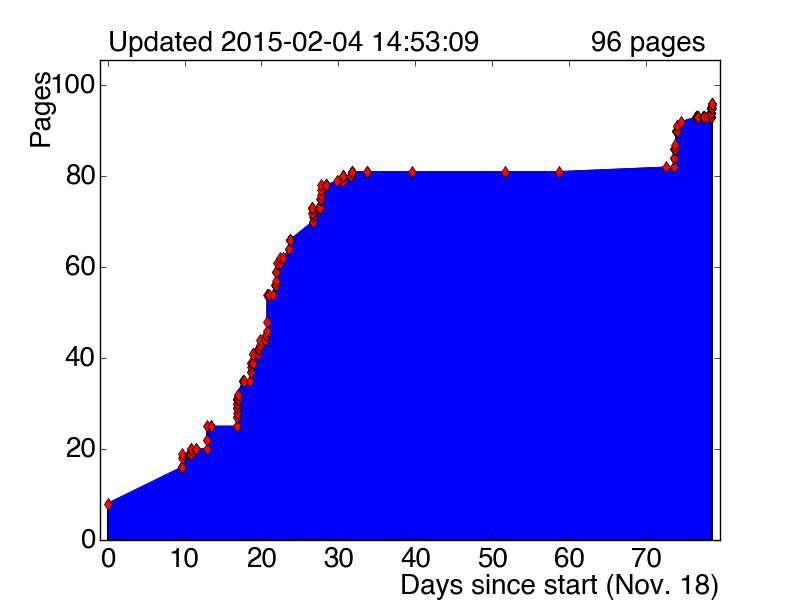
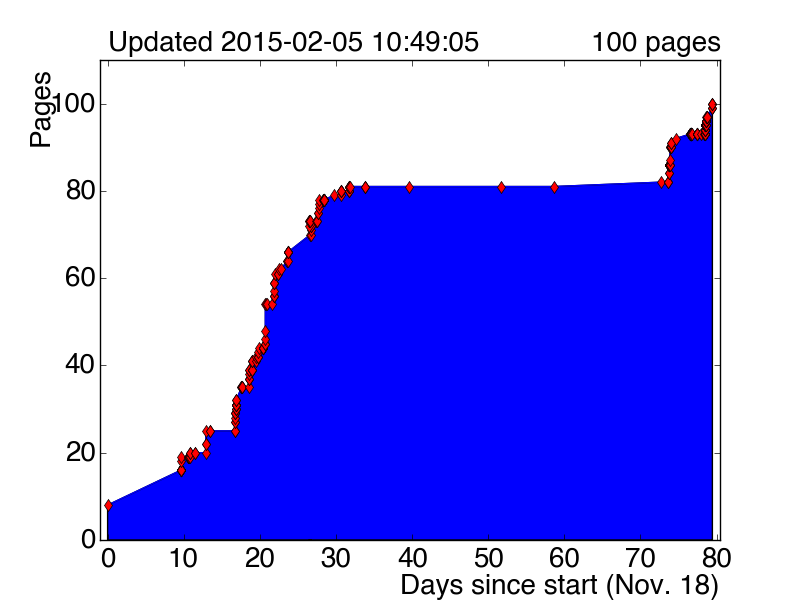
add sections to experiment, more tau id

diff --git a/tex/taus.tex b/tex/taus.tex
@@ -121,13 +121,16 @@ The in-situ method relies on the sensitivity of the visible $\mtautau$ in $\Ztau
 
 As a high energy hadron collider, the overwhelming majority of particles observed by ATLAS are hadrons. Distinguishing these QCD jets from $\tauh$ is then of huge consequence. The properties with discriminating power can be broadly grouped into three categories:
 %
-\begin{itemize}
-    \item \textbf{Track multiplicity}. $\tauh$ tend to have 1 or 3 associated tracks, where no such specificity is expected for jets.
-    \item \textbf{Narrowness}. $\tauh$ tend to be more narrow in the tracker and calorimeter since tau leptons from electroweak decays are boosted.
-    \item \textbf{Displaced vertex}. Tracks from $\tauh$ tend to be more displaced from the primary vertex than tracks in jets due to the finite tau lepton lifetime.
-\end{itemize}
+\begin{description}
+    \item[Track multiplicity:] \hfill \\
+      $\tauh$ tend to have 1 or 3 associated tracks, where no such specificity is expected for jets.
+    \item[Narrowness:]         \hfill \\
+      $\tauh$ tend to be more narrow in the tracker and calorimeter since tau leptons from electroweak decays are boosted.
+    \item[Displaced vertex:]   \hfill \\
+      Tracks from $\tauh$ tend to be more displaced from the primary vertex than tracks in jets due to the finite tau lepton lifetime.
+\end{description}
 %
-
+The track multiplicity and narrowness features are shown in \cref{fig:taus-eventdisplay}.
 
 \begin{figure}[tp]
   \centering
@@ -135,6 +138,78 @@ As a high energy hadron collider, the overwhelming majority of particles observe
   \caption{Variables.}
   \label{fig:taus-eventdisplay}
 \end{figure}
+
+For track multiplicity, reconstructed $\tauh$ are required to have exactly 1 or 3 associated tracks. This is effective at rejecting QCD jets which have a broader track multiplicity spectrum. This requirement has signficant efficiency loss (20-40\%) due to photon conversions from neutral pion decays and pileup, among other effects. The track multiplicity spectrum for $\tauh$ and jets is shown in \cref{fig:taus-trackmultiplicity} in a $\Ztaultauh$-rich selection of data.
+
+\begin{figure}[tp]
+  \centering
+  \includegraphics[width=0.95\textwidth]{figures/PERF-2013-06/fig_10a}
+  \caption{Variables.}
+  \label{fig:taus-trackmultiplicity}
+\end{figure}
+
+For narrowness and vertex displacement, discriminating variables are formed using tracking and calorimeter information and combined in a multi-variate identification algorithm. A complete description of the variables is given in \cref{tab:taus-idvars} and \cref{tab:taus-idvars}.
+
+A neutral pion identification algorithm is used.
+
+\begin{description}
+
+    \item[Central energy fraction (\coreEnergyFrac{}):] \hfill \\ 
+      Fraction of transverse energy deposited in the region $\Delta R < 0.1$ out of all energy deposited in the region $\Delta R < 0.2$ around the $\tauh$ candidate calculated by summing the energy deposited in all cells belonging to TopoClusters with a barycenter in this region, calibrated at the EM energy scale. Biases due to pile-up contributions are removed using a correction based on the number of reconstructed primary vertices in the event.
+
+    \item[Leading track momentum fraction (\leadTrackMomFrac{}):] \hfill \\ 
+      The transverse momentum of the highest-\pt{} charged particle in the core region of the $\tauh$ candidate, divided by the transverse energy sum, calibrated at the EM energy scale, deposited in all cells belonging to TopoClusters in the core region. A correction depending on the number of reconstructed primary vertices in the event is applied to this fraction, making the resulting variable pile-up independent.
+
+    \item[Track radius (\trackRadius{}):] \hfill \\ 
+      \pt-weighted distance of the associated tracks to the $\tauh$ direction, using all tracks in the core and isolation regions.
+
+    \item[Leading track IP significance (\ipSigLeadTrk{}): ] \hfill \\ 
+      Transverse impact parameter of the  highest-\pt{} track in the core region, divided by its estimated uncertainty.
+
+    \item[Number of tracks in the isolation region (\numIsoTrack{}):] \hfill \\ 
+      Number of tracks associated to the $\tauh$ in the region $0.2<\Delta R<0.4$.
+      
+    \item[Maximum $\Delta R$ (\dRmax{}): ] \hfill \\ 
+      The maximum $\Delta R$ between a track associated to the $\tauh$ candidate and the $\tauh$ direction. Only tracks in the core region are considered.
+      
+    \item[Transverse flight path significance (\transFlightSig{}):] \hfill \\ 
+      The decay length of the secondary vertex (vertex reconstructed with the tracks associated to the core region of the $\tauh$ candidate) in the transverse plane, divided by its estimated uncertainty. It is defined only for multi-track $\tauh$ candidates.
+      
+    \item[Track mass (\trackMass{}):] \hfill \\ 
+      Invariant mass of the four-vector sum of the charged particle momenta in the core and isolation regions.
+      
+    \item[Track-plus-$\pi^0$-system mass (\trackPizeroMass{}):] \hfill \\ 
+      Invariant mass of the system composed of the tracks and $\pi^0$ mesons in the core region.
+      
+    \item[Number of $\pi^0$ mesons reconstructed in the core region ($N_{\mathrm{\pi^0} } $).] \hfill \\
+      
+    \item[Ratio of track-plus-$\pi^0$-system \pt{} to total $\tauh$ \pt{} (\Etratio{}): ] \hfill \\ 
+      Ratio of estimated \pt{} using track + $\pi^0$ information to the calorimeter-only measurement.
+      
+\end{description}
+
+\begin{table}[htp] 
+  \centering
+  \begin{tabular}{|c|cc|cc|}
+    \hline
+    Variable & \multicolumn{2}{c|}{Offline}      & \multicolumn{2}{c|}{Trigger} \\
+                         &  1-track  & 3-track   & 1-track   & 3-track   \\ \hline
+    \coreEnergyFrac{}    & $\bullet$ & $\bullet$ & $\bullet$ & $\bullet$ \\
+    \leadTrackMomFrac{}  & $\bullet$ & $\bullet$ & $\bullet$ & $\bullet$ \\
+    \trkAvgDist{}        & $\bullet$ & $\bullet$ & $\bullet$ & $\bullet$ \\
+    \ipSigLeadTrk{}      & $\bullet$ &           & $\bullet$ &           \\
+    \numIsoTrack{}       & $\bullet$ &           & $\bullet$ &           \\
+    \dRmax{}             &           & $\bullet$ &           & $\bullet$ \\
+    \trkFlightPathSig{}  &           & $\bullet$ &           & $\bullet$ \\
+    \massTrkSys{}        &           & $\bullet$ &           & $\bullet$ \\
+    \massTrkPizeroSys{}  & $\bullet$ & $\bullet$ &           &           \\
+    $N_{\mathrm{\pi^0}}$ & $\bullet$ & $\bullet$ &           &           \\
+    \Etratio{}           & $\bullet$ & $\bullet$ &           &           \\
+    \hline
+  \end{tabular}
+  \caption{Discriminating variables used in the $\tauh$ identification algorithms.}
+  \label{tab:taus-idvars}
+\end{table}
 
 \begin{figure}[tp]
   \centering

diff --git a/tex/experiment.tex b/tex/experiment.tex
@@ -53,4 +53,17 @@
   \label{fig:atlas-measurements}
 \end{figure}
 
+\section{Tracking}
+\section{Calorimetry}
+\section{Muon spectrometry}
+\section{Particle identification}
+\subsection{Muons}
+\subsection{Electrons and photons}
+\subsection{Hadrons}
+\subsubsection{Jets}
+\subsubsection{Jets from $b$-hadron decays}
+\subsubsection{Jets from $\tau$ lepton decays}
+\subsection{Neutrinos}
+\section{Triggering}
+
 

diff --git a/pages.md b/pages.md
@@ -296,3 +296,14 @@
 + [2015-02-04-14h19m58s] 96
 + [2015-02-04-14h22m41s] 96
 + [2015-02-04-14h53m09s] 96
++ [2015-02-04-15h22m35s] 97
++ [2015-02-04-17h45m31s] 97
++ [2015-02-04-17h47m12s] 97
++ [2015-02-04-17h53m26s] 97
++ [2015-02-04-18h08m19s] 97
++ [2015-02-05-10h35m37s] 99
++ [2015-02-05-10h36m33s] 99
++ [2015-02-05-10h37m45s] 99
++ [2015-02-05-10h43m26s] 100
++ [2015-02-05-10h46m42s] 100
++ [2015-02-05-10h49m05s] 100
